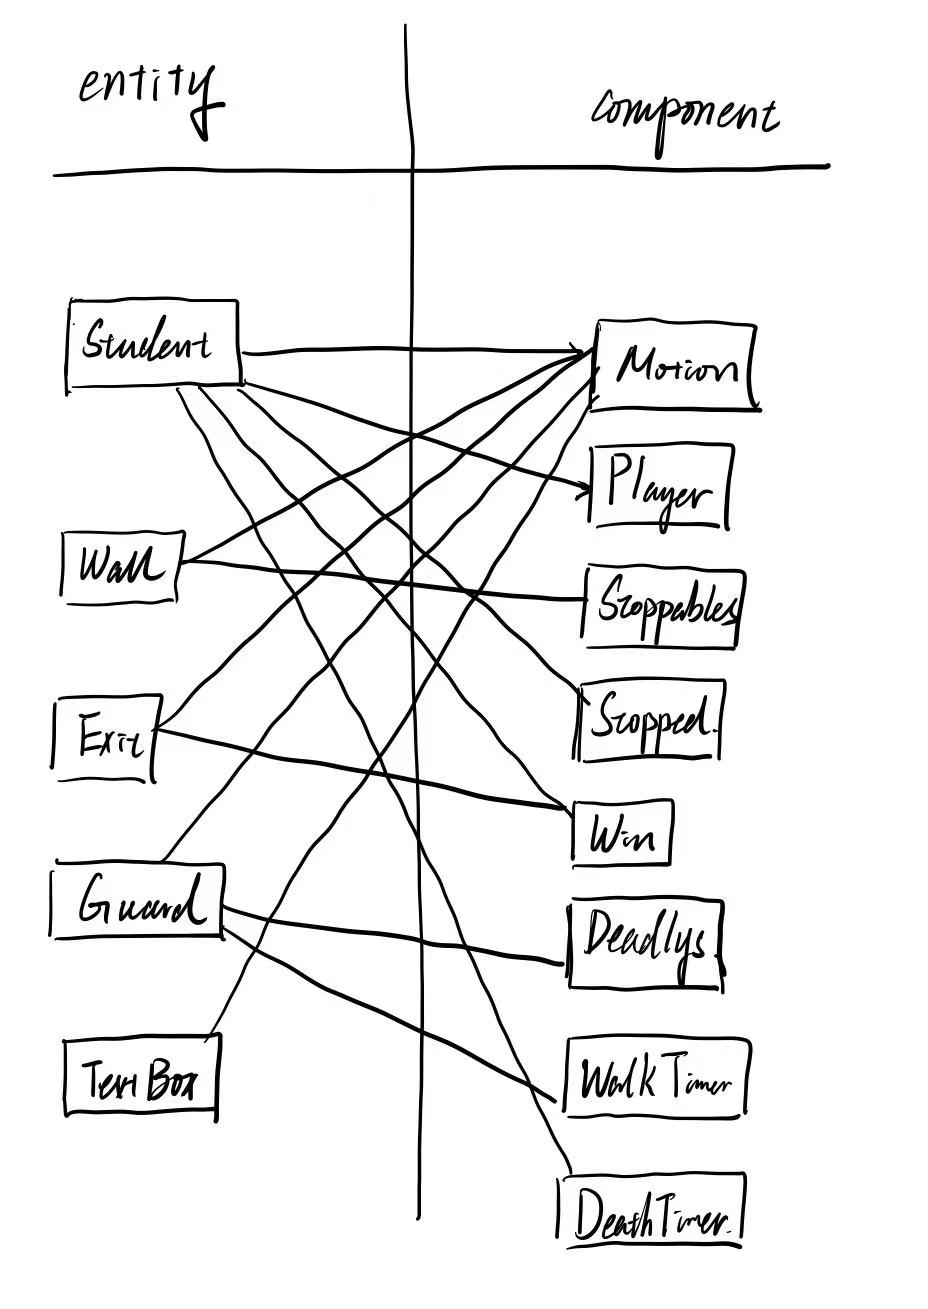
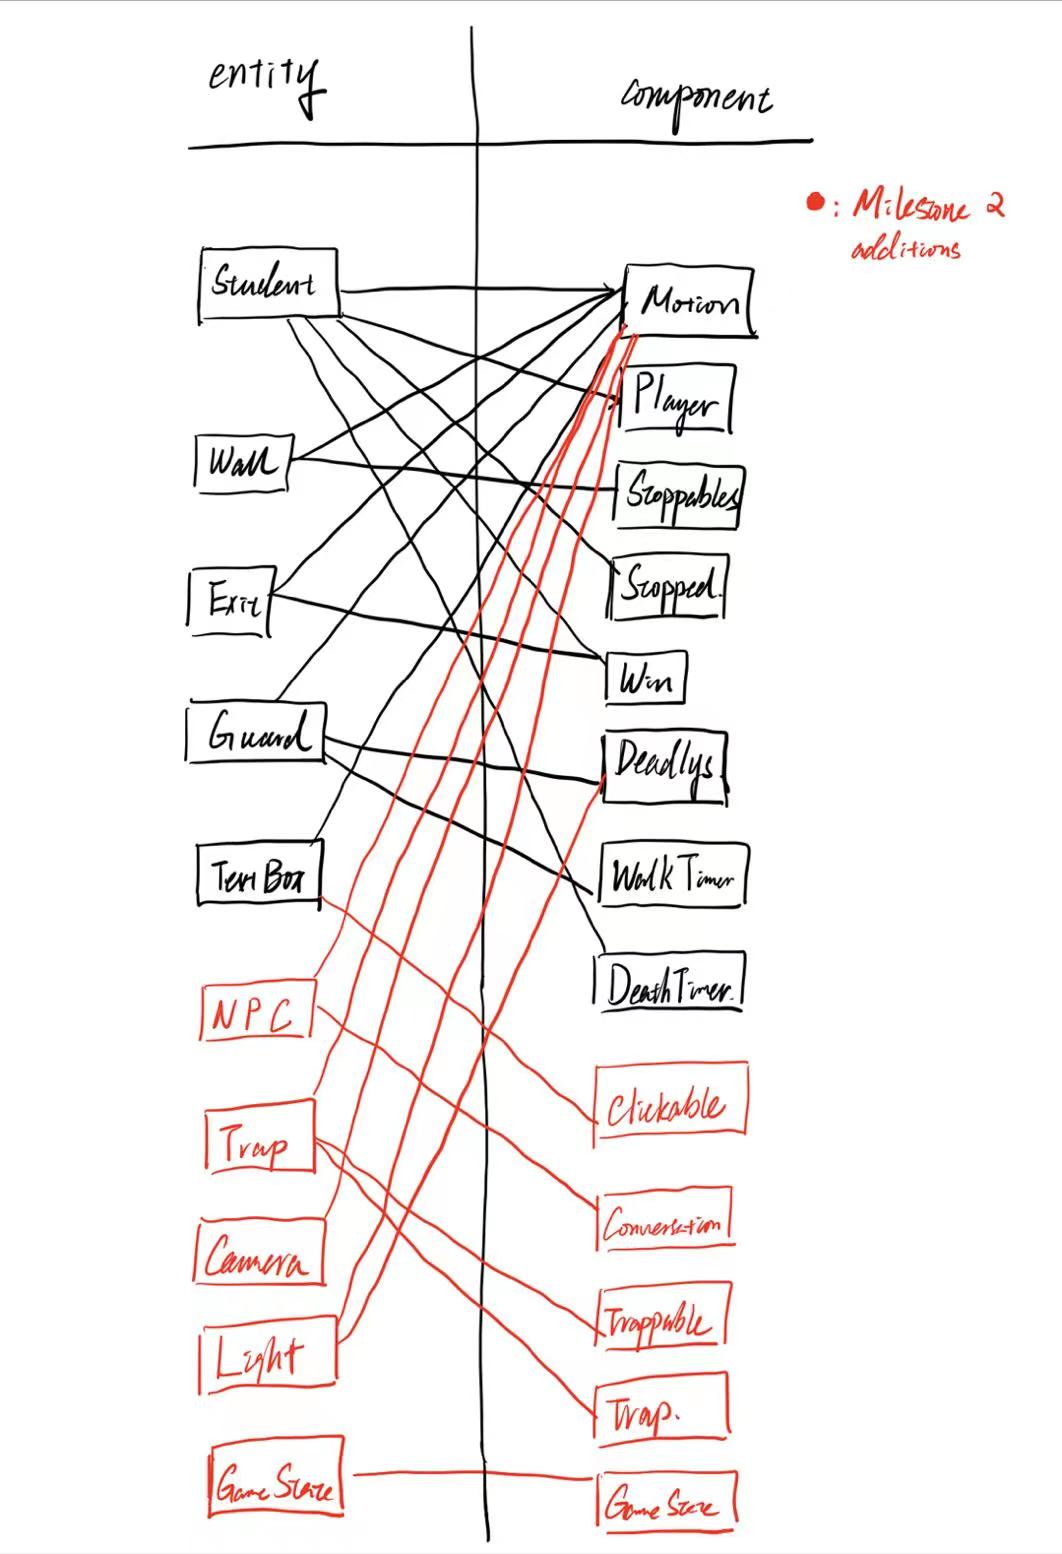
Fix wall collision, and update Readme and ecs_diagram

Changed region(s): [[0.0312, 0.0, 0.9688, 1.0], [0.0938, 0.0306, 0.1562, 0.0917]]

diff --git a/cpsc-427-dev/template/src/world_system.cpp b/cpsc-427-dev/template/src/world_system.cpp
@@ -26,6 +26,10 @@ float bg_Y = window_height_px * 1.5;
 float cursorX;
 float cursorY;
 
+
+int bot_to_top = 0;
+int left_to_right = 0;
+
 // Create the bug world
 WorldSystem::WorldSystem()
 	: points(0)
@@ -269,7 +273,6 @@ bool WorldSystem::step(float elapsed_ms_since_last_update) {
 							dir = Character::Direction::LEFT;
 					}
 					else {
-						std::cout << "shitfuxk";
 						if (motion.velocityGoal.y >= 0) // now the guard is moving right
 							dir = Character::Direction::DOWN;
 						else
@@ -517,30 +520,65 @@ void WorldSystem::handle_collisions() {
 					registry.stopeds.emplace(entity);
 				}
 				vec2 velocity = registry.motions.get(entity).velocityGoal;
-				registry.motions.get(entity).velocityGoal = { 0, 0 };
-				registry.motions.get(entity).velocity = { 0, 0 };
+				
 				vec2 position = registry.motions.get(entity).position;
+				//vec2 position = registry.motions.get(entity_other).position;
 				Mix_PlayChannel(-1, wall_collision_sound, 0);
-				if (velocity.x > 0) {
-					registry.motions.get(entity).position = { position.x - 30.f, position.y };
+				if (abs(velocity.x) > abs(velocity.y) || abs(registry.motions.get(entity).velocity.x) > abs(registry.motions.get(entity).velocity.y)) {
+					if (velocity.x > 0 || registry.motions.get(entity).velocity.x >0) {
+						left_to_right = 1;
+						registry.motions.get(entity).velocityGoal = { 0, 0 };
+						registry.motions.get(entity).velocity = { 0, 0 };
+						registry.motions.get(entity).position = { position.x - 30.f, position.y };
+					}
+					else if (velocity.x < 0 || registry.motions.get(entity).velocity.x <0) {
+						left_to_right = 0;
+						registry.motions.get(entity).velocityGoal = { 0, 0 };
+						registry.motions.get(entity).velocity = { 0, 0 };
+						registry.motions.get(entity).position = { position.x + 30.f, position.y };
+					}
+					else {
+						if (left_to_right) {
+							registry.motions.get(entity).position = { position.x - 30.f, position.y };
+						}
+						else {
+							registry.motions.get(entity).position = { position.x + 30.f, position.y };
+						}
+					}
 				}
-				if (velocity.x < 0) {
-					registry.motions.get(entity).position = { position.x + 30.f, position.y };
+				else if (abs(velocity.x) <= abs(velocity.y) || abs(registry.motions.get(entity).velocity.x) <= abs(registry.motions.get(entity).velocity.y)) {
+					if (velocity.y > 0 || registry.motions.get(entity).velocity.y>0) {
+						bot_to_top = 0;
+						registry.motions.get(entity).velocityGoal = { 0, 0 };
+						registry.motions.get(entity).velocity = { 0, 0 };
+						registry.motions.get(entity).position = { position.x, position.y - 30.f };
+					}
+					else if (velocity.y < 0 || registry.motions.get(entity).velocity.y<0) {
+						bot_to_top = 1;
+						registry.motions.get(entity).velocityGoal = { 0, 0 };
+						registry.motions.get(entity).velocity = { 0, 0 };
+						registry.motions.get(entity).position = { position.x, position.y + 30.f };
+					}
+					else {
+						if (bot_to_top) {
+							
+							registry.motions.get(entity).position = { position.x, position.y + 30.f };
+						}
+						else {
+							registry.motions.get(entity).position = { position.x, position.y - 30.f };
+						}
+						
+					}
 				}
-				if (velocity.y > 0) {
-					registry.motions.get(entity).position = { position.x, position.y - 30.f };
-				}
-				if (velocity.y < 0) {
-					registry.motions.get(entity).position = { position.x, position.y + 30.f };
-				}
+
 				//registry.motions.get(entity).position = { position.x, position.y };
 			}
 			else if (registry.wins.has(entity_other)) {
 				Mix_PlayChannel(-1, fire_alarm_sound, 2);
-				++points;
 				if (!registry.wins.has(entity)) {
 					registry.wins.emplace(entity);
 				}
+				//registry.clear_all_components();
 				createTextBox(renderer, { bg_X / 2, bg_Y / 2 }, TEXTURE_ASSET_ID::WIN, WIN_BB_WIDTH, WIN_BB_HEIGHT, "unlock new level");
 			}
 			else if (registry.traps.has(entity_other)) {
@@ -764,26 +802,26 @@ bool inRange(vec2 buttonPos, int buttonWidth, int buttonHeight) {
 	float normalizedCursorY = cursorY + (550 - 160);
 	bool xInRange = (buttonLeft <= normalizedCursorX) && (buttonRight >= normalizedCursorX);
 	bool yInRange = (buttonTop <= normalizedCursorY) && (buttonBot >= normalizedCursorY);
-	std::cout << "buttonPos " << buttonPos[0] << " " << buttonPos[1] << std::endl;
-	std::cout << "buttonWidth " << buttonWidth << std::endl;
-	std::cout << "buttonHeight " << buttonHeight << std::endl;
-	std::cout << "normalizedCursorX " << normalizedCursorX << std::endl;
-	std::cout << "normalizedCursorY " << normalizedCursorY << std::endl;
-	std::cout << "buttonTop " << buttonTop << std::endl;
-	std::cout << "buttonBot " << buttonBot << std::endl;
-	std::cout << "xInRange " << xInRange << std::endl;
-	std::cout << "yInRange " << yInRange << std::endl;
+	//std::cout << "buttonPos " << buttonPos[0] << " " << buttonPos[1] << std::endl;
+	//std::cout << "buttonWidth " << buttonWidth << std::endl;
+	//std::cout << "buttonHeight " << buttonHeight << std::endl;
+	//std::cout << "normalizedCursorX " << normalizedCursorX << std::endl;
+	//std::cout << "normalizedCursorY " << normalizedCursorY << std::endl;
+	//std::cout << "buttonTop " << buttonTop << std::endl;
+	//std::cout << "buttonBot " << buttonBot << std::endl;
+	//std::cout << "xInRange " << xInRange << std::endl;
+	//std::cout << "yInRange " << yInRange << std::endl;
 	return xInRange && yInRange;
 }
 
 
 Clickable* findClickedButton() {
 	// uses cursorX and cursorY to see if it is in range of any button
-	std::cout << "findClickedButton" << std::endl;
+	//std::cout << "findClickedButton" << std::endl;
 	for (auto &c : registry.clickables.components) {
-		std::cout << "----check button range ----" << std::endl;
+		//std::cout << "----check button range ----" << std::endl;
 		if (inRange(c.position, c.width, c.height)) {
-			std::cout << "Found Clicked Button" << std::endl;
+			//std::cout << "Found Clicked Button" << std::endl;
 			return &c; // TODO: does this work?
 		}
 	}
@@ -820,7 +858,7 @@ int WorldSystem::changeLevel(std::string buttonAction) {
 			gameState->gameLevel.currLevel = switchToLevel;
 		}
 		else {
-			std::cout << "Tried to access locked level, failed" << std::endl;
+			//std::cout << "Tried to access locked level, failed" << std::endl;
 			switchToLevel = -1;
 		}
 	}
@@ -833,9 +871,8 @@ int WorldSystem::changeLevel(std::string buttonAction) {
 
 
 void WorldSystem::mouse_button_callback(int button, int action, int mods) {
-	std::cout << "IN mouse_button_callback" << std::endl;
 	if (button == GLFW_MOUSE_BUTTON_LEFT && action == GLFW_RELEASE) {
-		std::cout << "Left Button Released" << std::endl;
+		//std::cout << "Left Button Released" << std::endl;
 
 		// clickable component that we clicked on
 		GameState* gameState = &registry.gameStates.get(gameStateEntity);
@@ -846,12 +883,12 @@ void WorldSystem::mouse_button_callback(int button, int action, int mods) {
 
 			if (gameState->state == GameState::GAME_STATE::LEVEL_SELECTION) {
 				// if we are on level selection page
-				std::cout << "Selecting Levls" << std::endl;
+				//std::cout << "Selecting Levls" << std::endl;
 
 				// check if user clicked on the level selection button
 				int new_level = changeLevel(buttonAction);
 				if (new_level != -1) {
-					std::cout << "new_level is: " << new_level << std::endl;
+					//std::cout << "new_level is: " << new_level << std::endl;
 					restart_game();
 					return; // we changed the level
 				}
@@ -872,7 +909,7 @@ void WorldSystem::mouse_button_callback(int button, int action, int mods) {
 		// go back to menu if winned the game
 		if (gameState->state == GameState::GAME_STATE::LEVEL_SELECTED && registry.wins.has(player_student)) {
 			// currently in an game
-			std::cout << "Playing in level finished a level and go back to menu" << std::endl;
+			//std::cout << "Playing in level finished a level and go back to menu" << std::endl;
 			// unlock the next level and go back to home page
 
 			// check if we are not at maximum level + we are playing the last unlocked level

diff --git a/cpsc-427-dev/template/src/world_init.hpp b/cpsc-427-dev/template/src/world_init.hpp
@@ -12,8 +12,8 @@ const float GUARD_BB_WIDTH = 0.2f * 512.f;
 const float GUARD_BB_HEIGHT = 0.2f * 512.f;
 const float NPC_BB_WIDTH = 0.3f * 165.f;
 const float NPC_BB_HEIGHT = 0.3f * 165.f;
-const float WALL_BB_WIDTH = 0.1f * 202.f;
-const float WALL_BB_HEIGHT = 0.1f * 202.f;
+const float WALL_BB_WIDTH = 0.15f * 202.f;
+const float WALL_BB_HEIGHT = 0.15f * 202.f;
 const float EXIT_BB_WIDTH = 0.1f * 900.f;
 const float EXIT_BB_HEIGHT = 0.1f * 1000.f;
 const float WIN_BB_WIDTH = 0.4f * 512.f;

diff --git a/README.md b/README.md
@@ -30,3 +30,59 @@ World_system.cpp, onkey(), line 506-525, use up/down/left/right to control the c
 
 **Graceful Termination:** Once the user reaches the fire alarm, a text box will show up and says "You Win" to indicate termination, textbox is created at line 435 of world_system.cpp, create textbox is defined in line 127-151 of world_system.cpp. Also once the user reach destination, user won't be able to move anymore and keyboard control will be disabled, this is done by line 432-434 in world_system.cpp, line 43 in physics_system.cpp and line 460-462 of world_system.cpp. The textbox displayed come from the image in data/textures, which is loaded in line 37 of render_system.hpp
 
+**Milestone 2**
+
+**sprite sheet animation:**
+used sprite sheet to implement player and guard animation. component.cpp line 123-298: used time and direction to update sprite's current texture. component.hpp line 9-64: define character direction, and switch direction function. component.hpp line 251-302: define character's texture. Render_system.hpp line 37-89, define texture path for sprites. world_system.hpp line 263-281,639,651,663,675: switch sprite walking direction. 
+
+**Playability:**
+data/levels: Create a txt file for each level. W: wall, S: student, G: guard, T: trap, C:camera, L:light, E: Exit.
+world_system.cpp, showLevelContent, line 411-458, based on the current level, it will read in the corresponding txt file line by line and push the characters into a vector. It will then render each entity based on the position in the txt file.
+
+**Simple_path:**
+ai_system.cpp, calcChaseVectorV1, line 66-129, calculate the chase vector by BFS. Until the guard reaches the player position, the guard chases the player around by following the path with shortest manhattan distance, and avoid walls if there is a wall in his neighboring position. 
+ai_system.cpp, PosIsValid, line 15-18, return validity of an index position
+ai_system.cpp, Distance, line 21-24, calculate manhattan distance between points a and b
+ai_system.cpp, hasWallAtNeighbor, line 50-63, return true if there is a wall at the neighboring range of pos 
+
+**Movement Interpolation:**
+world_system.cpp, approach, line 889-901, for given current velocity of the entity and the goal velocity, interpolate the in-between velocities bases on time dt. Return goal velocity if the entity reaches it.
+world_system.cpp, on_key, line 632-680, set the goal velocity of the player instead of directly set its velocity.
+world_system.cpp, step, line 165-169, update the current velocity of the player and the guard.
+
+**Game logic response to user input:**
+Added image files in data folder for buttons of each level, different image represent a locked level and unlocked level. In http://cpsc-427-dev/template/data/textures/
+Textbox have a new component called Clickable, which has a it's location and the correspounding button action. In cpsc-427-dev/template/src/components.hpp line 190-204, also in cpsc-427-dev/template/src/tiny_ecs_registry.hpp 30-70, In cpsc-427-dev/template/src/world_init.cpp line 190-219, world_system.cpp line 355-361
+Create new class GameState and GameLevel, GameState records a state, it's either "LEVEL_SELECTION" represent we should display the menu, "LEVEL_SELECTED" represent we shuold display the selected level, "TUTORIAL_PAGE" represent we should display the tutorial page. Each GameState stores the current state and stores an reference to the GameLevel. Game_state.hpp and game_state.cpp.
+New listener redirect for mouse clicks, when user clicks a the mouse, we check if it's clicking on a specific button. In world_system.cpp line 500-573, handle_collision function
+And the handler for the event will check the button's action and change the program state. In world_system.cpp, line 758-888.
+
+**Basic user tutorial/help:**
+- Shiyu:
+Create button for tutorial on the menu. In http://cpsc-427-dev/template/data/textures/
+Create button handler for tutorail, create key handler to get back to main menu from tutorial page, world_system.cpp line 355-361, line 461-463, line 591-600
+- Jingyang:
+Drawed tutorial image
+
+**Reloadability:**
+New file added in data folder, /data/game_text_file/unlockedLevel.txt, which stores an integer represent the current number of level unlocked by the user
+Reload and Save of game state is called i game_state.cpp line1 to the end of file
+
+**Game Logic:**
+New NPC character that will have conversation with the user, In cpsc-427-dev/template/src/world_init.cpp line 276 - 306, createNPC for character 'N' on the map in world_system.cpp line 441
+New conversation component in components.hpp line 208-216
+Conversation component has its own state, as a decision tree in conversation_state.hpp, the entire file.
+New image for NPC and conversation added in template/data/textures/
+User talk to the NPC on collision: handleder in world_system.cpp line 535-548
+User interact with NPC with key event in world_system.cpp on_key line 586-603
+
+**Asset:**
+- Trap: 
+World_init.cpp line 221-247: Implement createTrap function to create a new trap with the given position
+World_system.cpp line 428, based on the design in level.txt file to create traps
+World_system.cpp line 546-547, handle the collision between the player and the trap. It will show the sound, remove that trap, emplace the player into trappable component so that it will result in the guard chases the player, which trigger the current step function code in AISystem.cpp
+
+- Security Camera: additional enemy. Player will die if player get scan by camera light.
+World_init.cpp line 133-190: Initialize camera and light entities
+World_system.cpp line 445-450: Add camera and light to the background
+Physics_system.cpp line 43-45: Change the direction of the light once after a while
